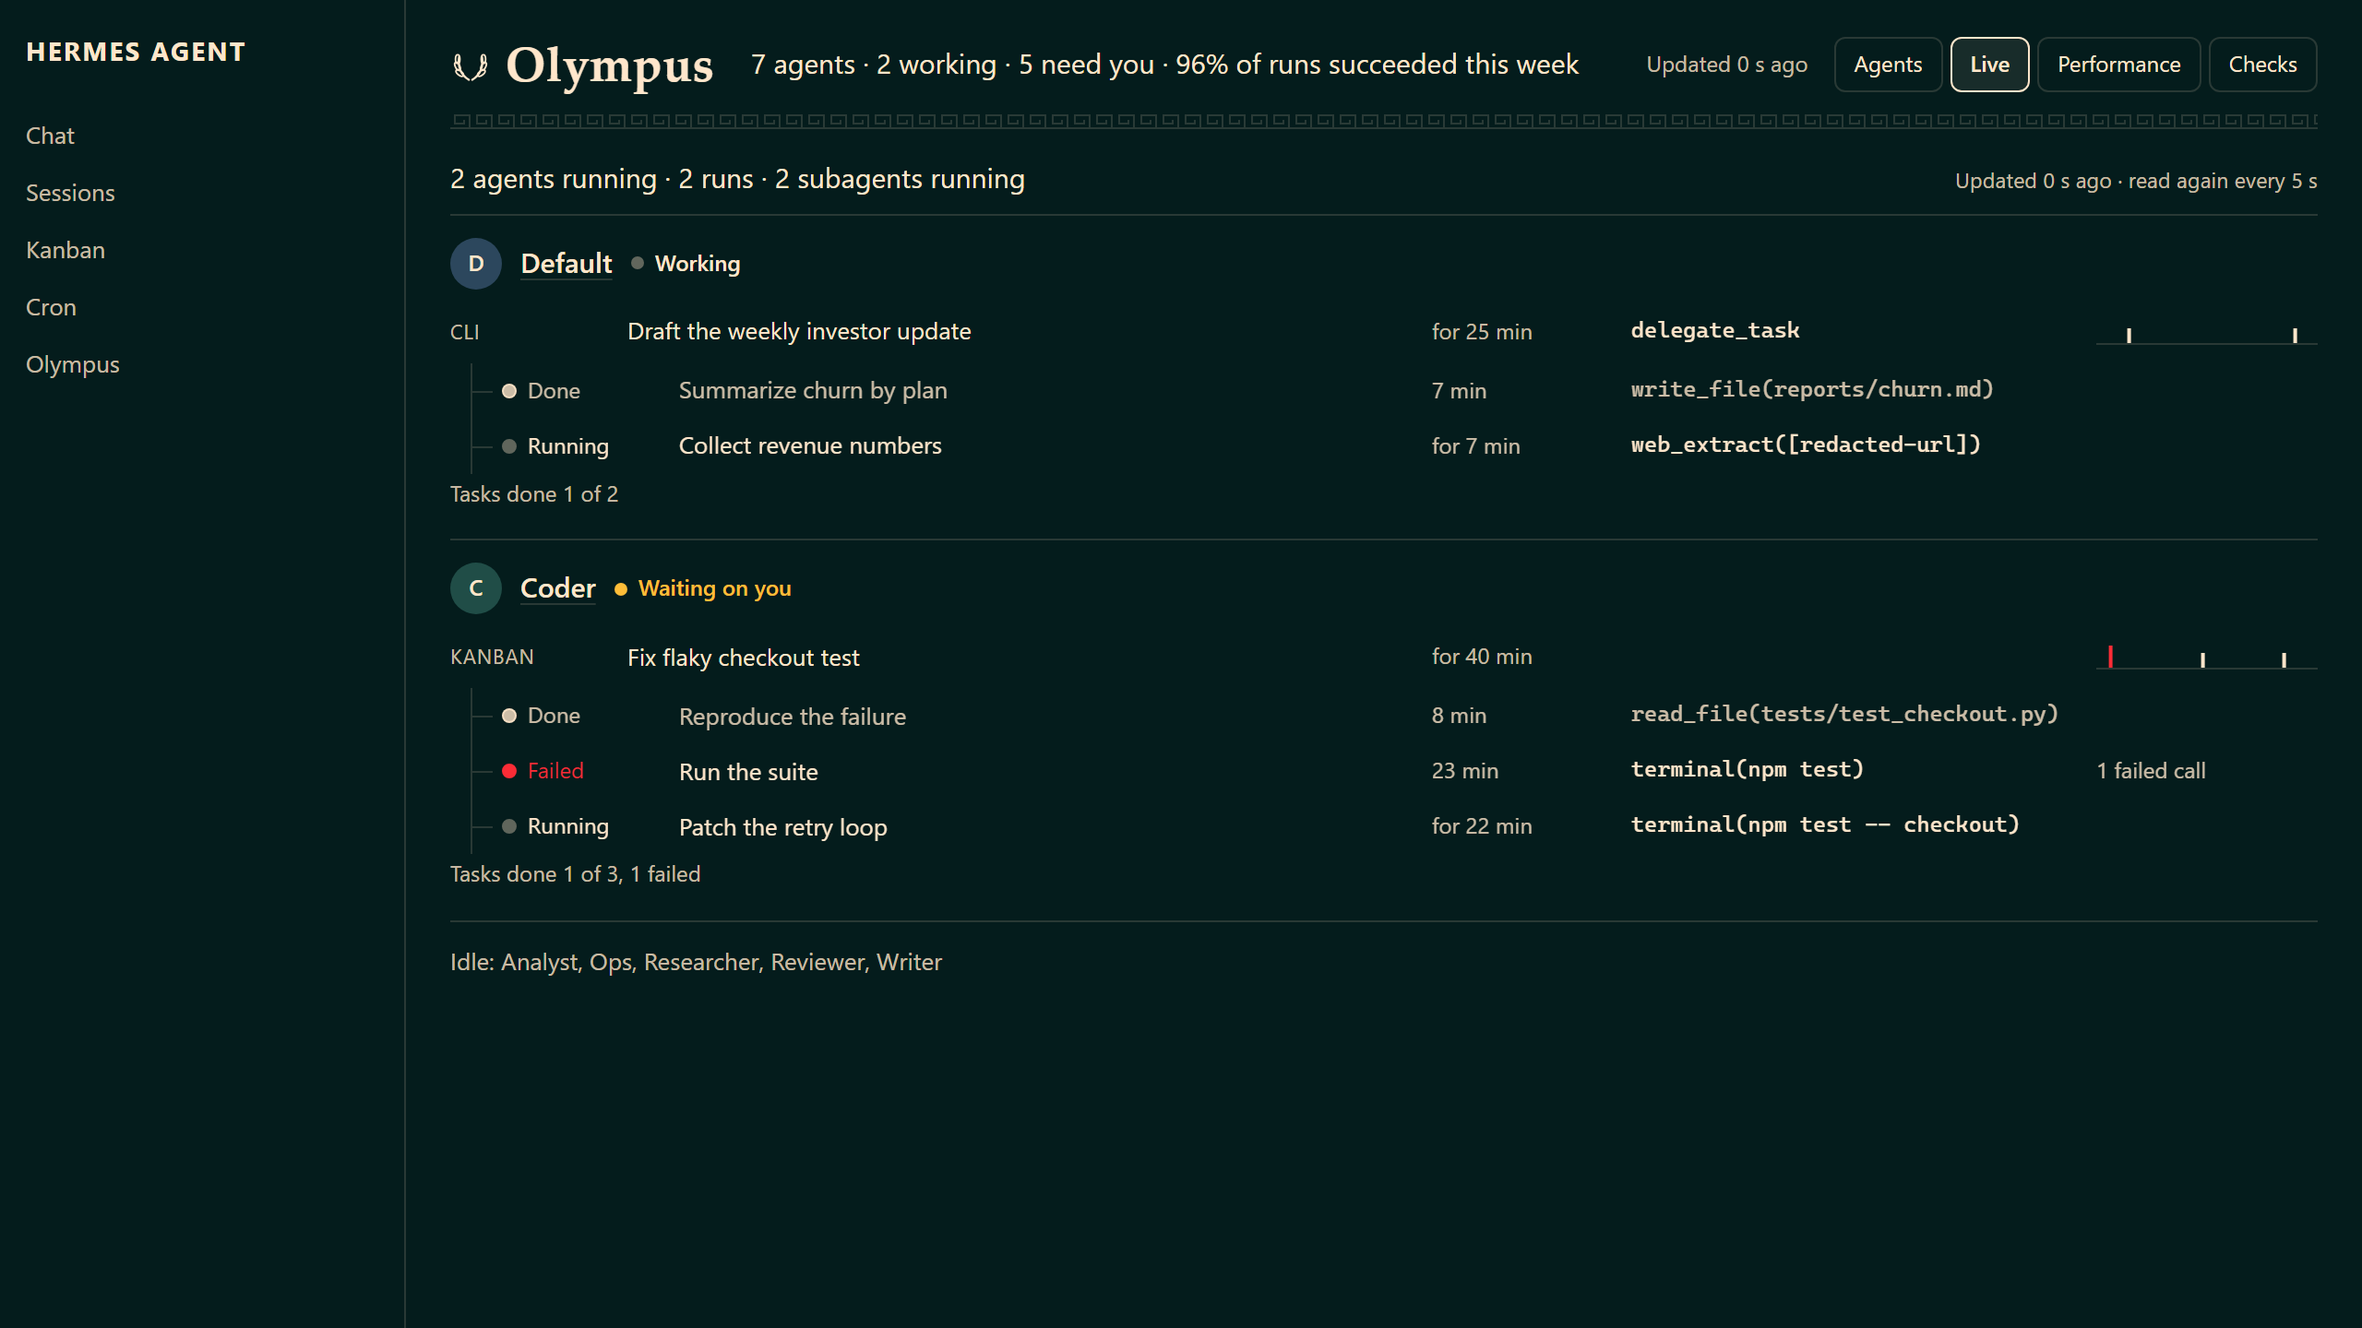
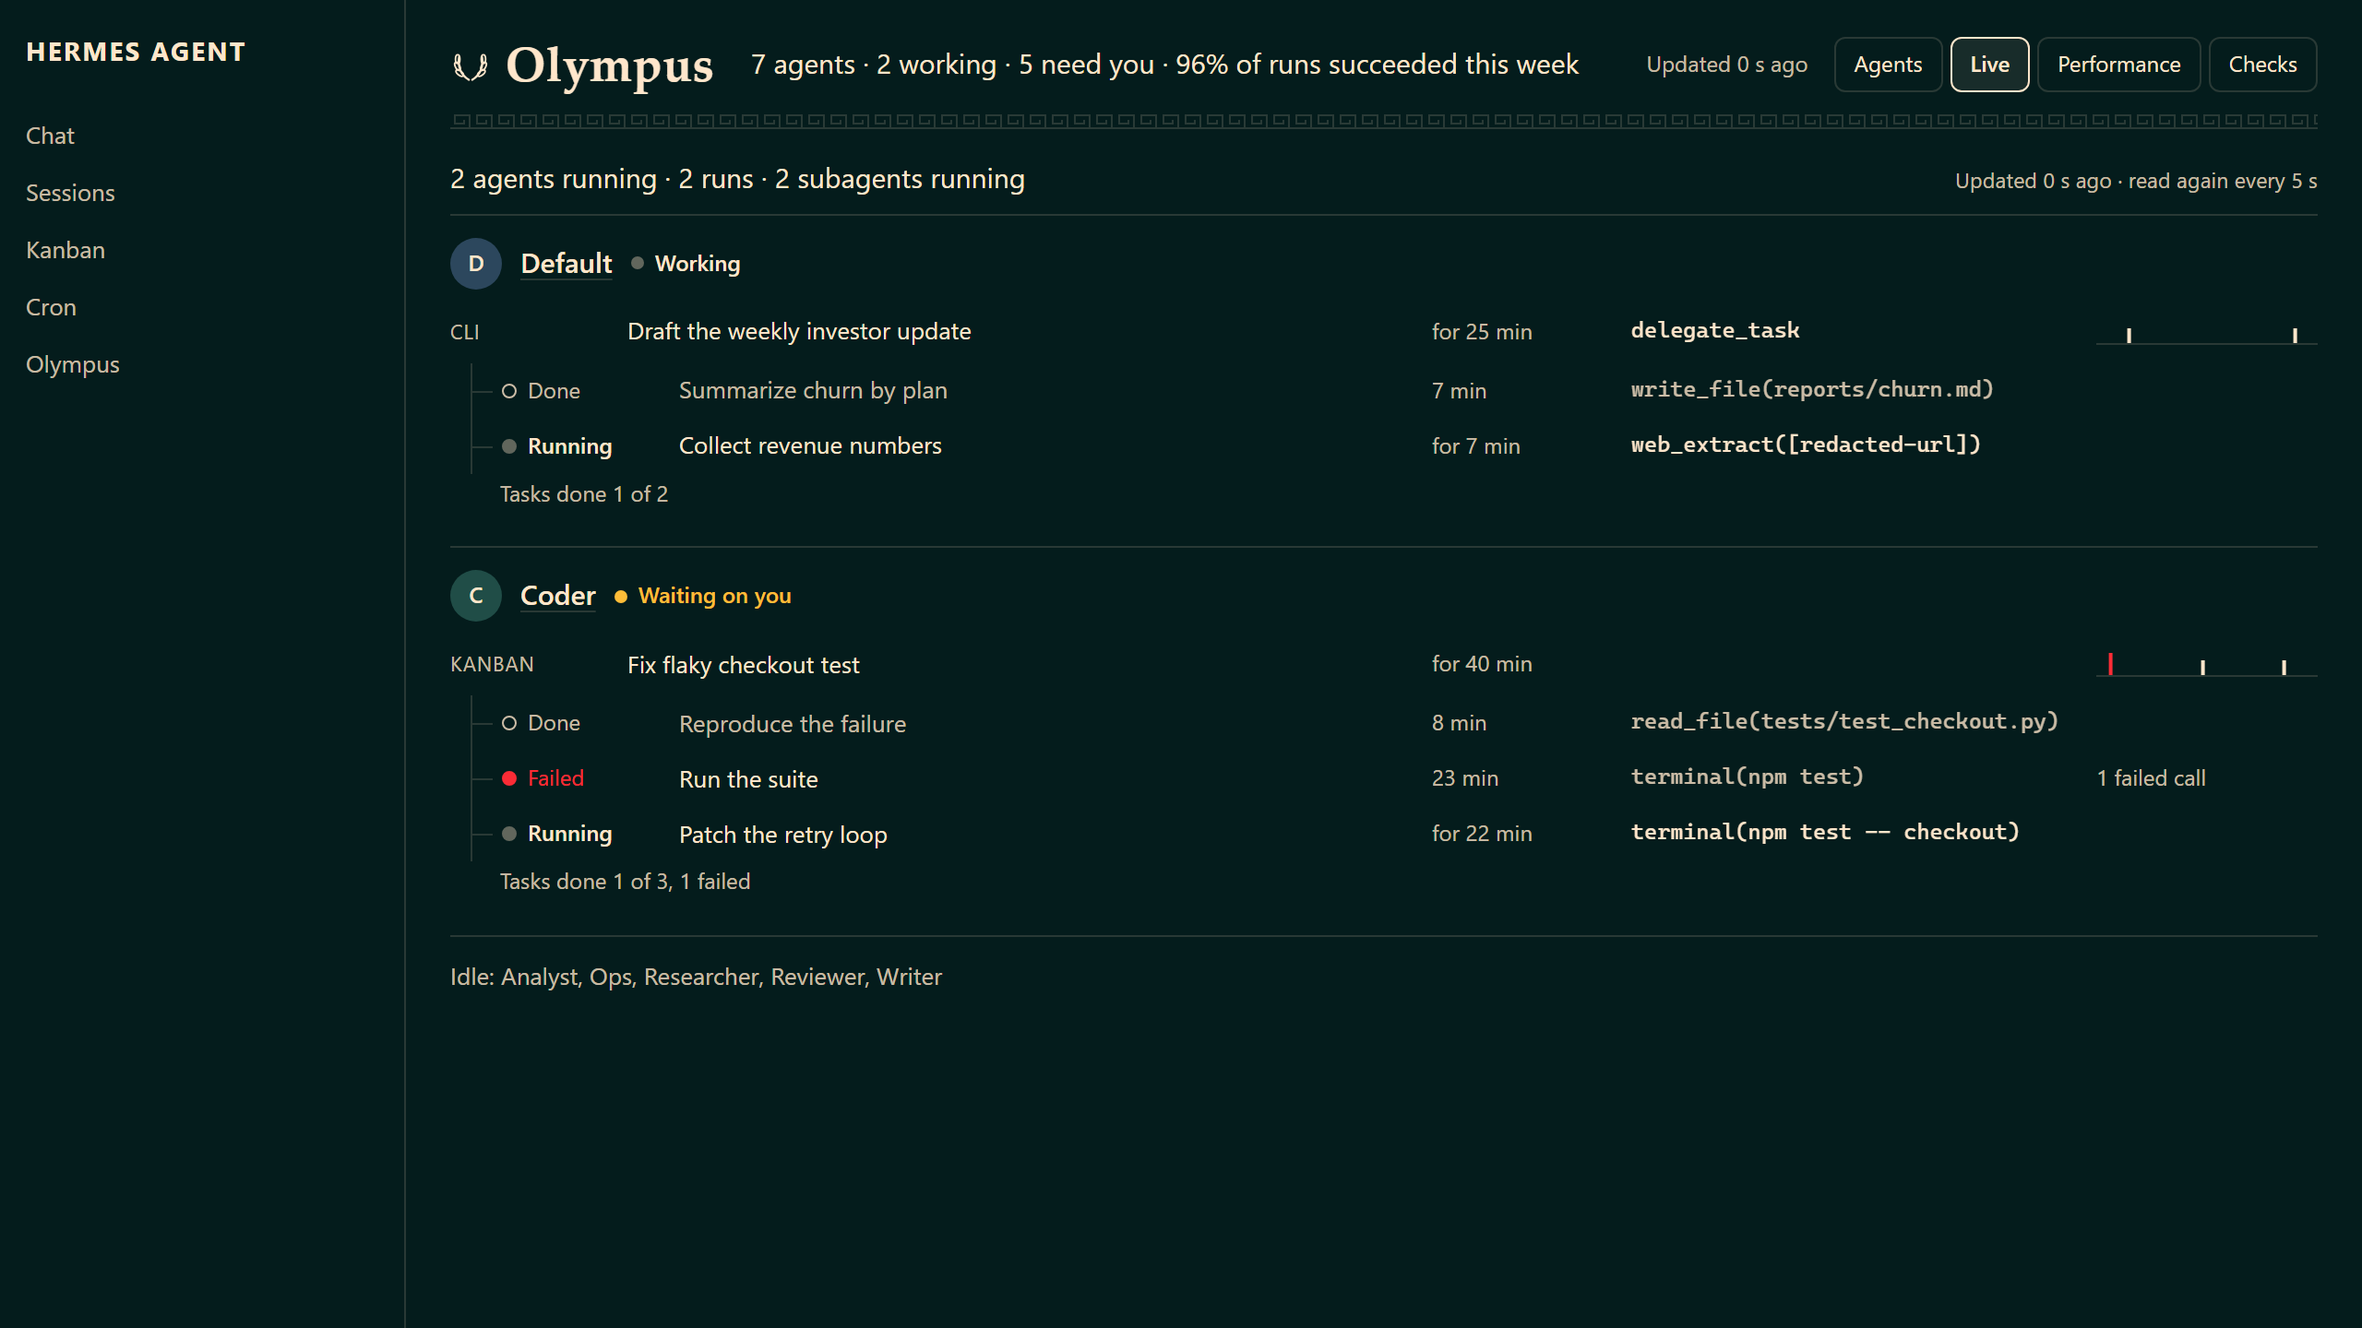
fix: Live view — animate only new subagents, lift Running, calm the tool chip, batch line indent
From the impeccable critique and a measured animation pass. Every child row
used to slide in on first paint and on each return to the tab, which is
page-load choreography; now only a subagent absent from the previous read
animates, and a tool chip fades only when it replaces another. The connector
stub no longer draws itself. A running child gets a filled dot and a bold
status word while done is hollow and muted, the tool chip sits at normal
weight under the task instead of over it, and "Tasks done N of M" keeps its
indent under the tree (the base paragraph rule had outranked it).

Playwright: a fixture ?grow=1 adds a subagent on the second read; tests
assert nothing animates at first paint, the grown child alone is marked new,
the stub has no animation, Running is 600 over Done 400, done dots are
hollow, chips are 400, and the batch line sits under the tree.

Claude-Session: https://claude.ai/code/session_017doESmRdm5Mbwm41YXbttS

diff --git a/dashboard/dist/index.js b/dashboard/dist/index.js
@@ -1322,11 +1322,14 @@
   }
 
   // The tool a session is on. Keyed by its text so a change remounts it and
-  // the stylesheet fades the new one in.
-  function ToolChip({ tool }) {
+  // the stylesheet fades the new one in; `settled` keeps the first paint still.
+  function ToolChip({ tool, settled }) {
+    // Fixed at mount: a chip that was on screen at first paint never gains
+    // the class later, so only a chip that replaces another fades in.
+    const [animate] = useState(settled);
     if (!tool || !tool.name) return null;
     const text = tool.name + (tool.args ? "(" + tool.args + ")" : "");
-    return el("code", { key: text, className: "olympus-lane-tool", title: text }, text);
+    return el("code", { key: text, className: cx("olympus-lane-tool", animate && "olympus-lane-tool-change"), title: text }, text);
   }
 
   // The last minute of tool calls as ticks that drift left one pixel-step a
@@ -1362,21 +1365,23 @@
     );
   }
 
-  function ChildRow({ child, now }) {
+  // `fresh`: the subagent appeared since the last read, so it slides in from
+  // its parent. Rows already on screen at first paint stay still.
+  function ChildRow({ child, now, fresh, settled }) {
     const running = child.status === "running";
-    return el("li", { className: cx("olympus-lane-child", "olympus-lane-child-" + child.status), "data-status": child.status },
+    return el("li", { className: cx("olympus-lane-child", "olympus-lane-child-" + child.status, fresh && "olympus-lane-child-new"), "data-status": child.status },
       el("span", { className: "olympus-lane-cell olympus-lane-status" },
         el("span", { className: cx("olympus-lane-dot", "olympus-lane-dot-" + child.status), "aria-hidden": "true" }),
         CHILD_STATUS_TEXT[child.status] || child.status
       ),
       el("span", { className: "olympus-lane-cell olympus-lane-label" }, child.label),
       el("span", { className: "olympus-lane-cell olympus-lane-time" }, running ? elapsed(child.started_at, now) : spanBetween(child.started_at, child.ended_at)),
-      el("span", { className: "olympus-lane-cell olympus-lane-tool-cell" }, el(ToolChip, { tool: child.last_tool })),
+      el("span", { className: "olympus-lane-cell olympus-lane-tool-cell" }, el(ToolChip, { tool: child.last_tool, settled })),
       el("span", { className: "olympus-lane-cell olympus-lane-note" }, child.errors ? plural(child.errors, "failed call") : null)
     );
   }
 
-  function RunRow({ run, now }) {
+  function RunRow({ run, now, freshRefs, settled }) {
     const batch = run.batch;
     const children = asList(run.children);
     return el("li", { className: "olympus-lane-run" },
@@ -1384,16 +1389,17 @@
         el("span", { className: "olympus-lane-cell olympus-lane-source" }, sourceText(run.source)),
         el("span", { className: "olympus-lane-cell olympus-lane-label" }, run.label),
         el("span", { className: "olympus-lane-cell olympus-lane-time" }, elapsed(run.started_at, now)),
-        el("span", { className: "olympus-lane-cell olympus-lane-tool-cell" }, el(ToolChip, { tool: run.last_tool })),
+        el("span", { className: "olympus-lane-cell olympus-lane-tool-cell" }, el(ToolChip, { tool: run.last_tool, settled })),
         el(ActivityStrip, { ticks: run.ticks, now })
       ),
-      children.length ? el("ol", { className: "olympus-lane-children" }, children.map((child) => el(ChildRow, { key: child.ref, child, now }))) : null,
+      children.length ? el("ol", { className: "olympus-lane-children" },
+        children.map((child) => el(ChildRow, { key: child.ref, child, now, fresh: freshRefs.has(child.ref), settled }))) : null,
       batch ? el("p", { className: "olympus-lane-batch" },
         "Tasks done " + batch.done + " of " + batch.total + (batch.failed ? ", " + plural(batch.failed, "failed") : "")) : null
     );
   }
 
-  function Lane({ lane, ctx }) {
+  function Lane({ lane, ctx, freshRefs, settled }) {
     const agent = ctx.agentById[lane.agent.id] || lane.agent;
     return el("section", { className: "olympus-lane", "aria-label": agent.label, "data-agent": agent.id },
       el("header", { className: "olympus-lane-head" },
@@ -1401,8 +1407,14 @@
         el("button", { type: "button", className: "olympus-link-button olympus-lane-name", onClick: () => ctx.openAgent(agent.id) }, agent.label),
         agent.status ? el(StatusPill, { status: agent.status, label: agent.status_label }) : null
       ),
-      el("ol", { className: "olympus-lane-runs" }, asList(lane.runs).map((run) => el(RunRow, { key: run.ref, run, now: ctx.now })))
+      el("ol", { className: "olympus-lane-runs" }, asList(lane.runs).map((run) => el(RunRow, { key: run.ref, run, now: ctx.now, freshRefs, settled })))
     );
+  }
+
+  function childRefs(payload) {
+    const refs = new Set();
+    asList(payload && payload.lanes).forEach((lane) => asList(lane.runs).forEach((run) => asList(run.children).forEach((child) => refs.add(child.ref))));
+    return refs;
   }
 
   function liveCensus(summary) {
@@ -1416,12 +1428,27 @@
   function LiveView({ ctx }) {
     const [live, setLive] = useState(null);
     const [error, setError] = useState(null);
+    // Which subagents are new since the last read, and whether the first
+    // read has painted: only those animate, never the whole list at once.
+    const [freshRefs, setFreshRefs] = useState(new Set());
+    const [settled, setSettled] = useState(false);
+    const seen = useRef(null);
     useEffect(() => {
       let alive = true;
       let timer = null;
       function load() {
         SDK.fetchJSON(API + "/live")
-          .then((next) => { if (alive) { setLive(next); setError(null); } })
+          .then((next) => {
+            if (!alive) return;
+            const refs = childRefs(next);
+            const fresh = new Set();
+            if (seen.current) refs.forEach((ref) => { if (!seen.current.has(ref)) fresh.add(ref); });
+            seen.current = refs;
+            setFreshRefs(fresh);
+            setLive(next);
+            setError(null);
+            window.requestAnimationFrame(() => { if (alive) setSettled(true); });
+          })
           .catch((err) => { if (alive) setError(toErrorMessage(err)); })
           .finally(() => { if (alive) timer = window.setTimeout(load, LIVE_REFRESH_MS); });
       }
@@ -1438,7 +1465,7 @@
       error ? el("p", { className: "olympus-error-text", role: "alert" }, "Could not read live runs: " + error) : null,
       !live && !error ? el(RosterSkeleton) : null,
       live && !lanes.length ? el("p", { className: "olympus-muted olympus-live-empty" }, "Nothing is running. A run shows here within " + live.poll_seconds + " s of starting.") : null,
-      lanes.map((lane) => el(Lane, { key: lane.agent.id, lane, ctx })),
+      lanes.map((lane) => el(Lane, { key: lane.agent.id, lane, ctx, freshRefs, settled })),
       idle.length ? el("p", { className: "olympus-muted olympus-live-idle" },
         "Idle: " + idle.map((agent) => (ctx.agentById[agent.id] || agent).label).join(", ")) : null
     );

diff --git a/tests/visual/olympus-live.spec.js b/tests/visual/olympus-live.spec.js
@@ -90,15 +90,53 @@ test.describe("Live view", () => {
     await expect(page.locator(".olympus-live-empty")).toHaveText("Nothing is running. A run shows here within 5 s of starting.");
   });
 
+  test("only a subagent that appears after the first read animates in", async ({ page }) => {
+    await page.clock.install();
+    await openLive(page, { state: "noisy", grow: "1" }, DESKTOP);
+    // First paint: every row is still; nothing is marked new and no chip fades.
+    await expect(page.locator(".olympus-lane-child")).toHaveCount(5);
+    await expect(page.locator(".olympus-lane-child-new")).toHaveCount(0);
+    const stillAnimations = await page.evaluate(() => document.getAnimations().map((a) => a.animationName).filter((n) => n && n.startsWith("olympus-lane")));
+    expect(stillAnimations).toEqual([]);
+    // Second read: one more subagent fanned out; it alone slides in.
+    await page.clock.runFor(5_200);
+    await expect(page.locator(".olympus-lane-child")).toHaveCount(6);
+    await expect(page.locator(".olympus-lane-child-new")).toHaveCount(1);
+    await expect(page.locator(".olympus-lane-child-new .olympus-lane-label")).toHaveText("Draft the cover note");
+    // The connector stub is static: no draw animation exists any more.
+    const stub = await page.locator(".olympus-lane-child-new").evaluate((node) => getComputedStyle(node, "::before").animationName);
+    expect(stub).toBe("none");
+  });
+
+  test("running is lifted over done without a new colour", async ({ page }) => {
+    await openLive(page, { state: "noisy" }, DESKTOP);
+    const coder = page.locator('.olympus-lane[data-agent="profile:coder"]');
+    const weights = await coder.locator(".olympus-lane-child .olympus-lane-status").evaluateAll((nodes) => nodes.map((n) => getComputedStyle(n).fontWeight));
+    expect(weights).toEqual(["400", "400", "600"]);
+    const doneDot = await coder.locator(".olympus-lane-child-done .olympus-lane-dot").evaluate((n) => getComputedStyle(n).backgroundColor);
+    expect(doneDot).toBe("rgba(0, 0, 0, 0)");
+    const chipWeight = await coder.locator(".olympus-lane-tool").first().evaluate((n) => getComputedStyle(n).fontWeight);
+    expect(chipWeight).toBe("400");
+    // The batch line keeps its indent under the tree, not the source column.
+    const [batchLeft, childLeft] = await Promise.all([
+      coder.locator(".olympus-lane-batch").evaluate((n) => n.getBoundingClientRect().left),
+      coder.locator(".olympus-lane-child").first().evaluate((n) => n.getBoundingClientRect().left)
+    ]);
+    expect(batchLeft).toBeGreaterThan(childLeft - 4);
+  });
+
   test("reduced motion turns every animation and transition off", async ({ page }) => {
     await page.emulateMedia({ reducedMotion: "reduce" });
-    await openLive(page, { state: "noisy" }, DESKTOP);
+    await page.clock.install();
+    await openLive(page, { state: "noisy", grow: "1" }, DESKTOP);
+    await page.clock.runFor(5_200);
+    await expect(page.locator(".olympus-lane-child-new")).toHaveCount(1);
     const motion = await page.evaluate(() => {
       const names = (selector, pseudo) => Array.from(document.querySelectorAll(selector)).map((node) => {
         const style = getComputedStyle(node, pseudo);
         return [style.animationName, style.transitionProperty];
       });
-      return names(".olympus-lane-child").concat(names(".olympus-lane-child", "::before"), names(".olympus-lane-tool"), names(".olympus-lane-tick"), names(".olympus-lane-dot-running"));
+      return names(".olympus-lane-child-new").concat(names(".olympus-lane-child", "::before"), names(".olympus-lane-tool"), names(".olympus-lane-tick"), names(".olympus-lane-dot-running"));
     });
     for (const [animation, transition] of motion) {
       expect(animation).toBe("none");

diff --git a/dashboard/dist/style.css b/dashboard/dist/style.css
@@ -1855,8 +1855,17 @@
   font-size: 12px;
   white-space: nowrap;
   text-overflow: ellipsis;
-  color: var(--olympus-fg);
+  font-weight: 400;
+  color: var(--olympus-muted);
   background: transparent;
+}
+
+.olympus-lane-run-row .olympus-lane-tool,
+.olympus-lane-child-running .olympus-lane-tool {
+  color: var(--olympus-fg);
+}
+
+.olympus-page .olympus-lane-tool-change {
   animation: olympus-lane-fade 160ms cubic-bezier(0.22, 1, 0.36, 1) both;
 }
 
@@ -1870,6 +1879,9 @@
 
 .olympus-lane-child {
   position: relative;
+}
+
+.olympus-lane-child-new {
   animation: olympus-lane-in 220ms cubic-bezier(0.22, 1, 0.36, 1) both;
 }
 
@@ -1881,8 +1893,6 @@
   width: 11px;
   height: 1px;
   background: var(--olympus-hairline);
-  transform-origin: left center;
-  animation: olympus-lane-draw 240ms cubic-bezier(0.22, 1, 0.36, 1) both;
 }
 
 .olympus-lane-status {
@@ -1911,7 +1921,12 @@
 
 .olympus-lane-dot-done {
   border-color: var(--olympus-muted);
-  background: var(--olympus-muted);
+  background: transparent;
+}
+
+.olympus-lane-child-running .olympus-lane-status {
+  font-weight: 600;
+  color: var(--olympus-fg);
 }
 
 .olympus-lane-dot-failed {
@@ -1924,15 +1939,11 @@
   transition: color 200ms cubic-bezier(0.22, 1, 0.36, 1);
 }
 
-.olympus-lane-child-done .olympus-lane-tool {
-  color: var(--olympus-muted);
-}
-
 .olympus-lane-child-failed .olympus-lane-status {
   color: var(--color-destructive);
 }
 
-.olympus-lane-batch {
+.olympus-page .olympus-lane-batch {
   margin: 2px 0 4px 27px;
   font-size: 12px;
   font-variant-numeric: tabular-nums;
@@ -1982,16 +1993,6 @@
   }
 }
 
-@keyframes olympus-lane-draw {
-  from {
-    transform: scaleX(0);
-  }
-
-  to {
-    transform: scaleX(1);
-  }
-}
-
 @keyframes olympus-lane-fade {
   from {
     opacity: 0;
@@ -2026,9 +2027,8 @@
 }
 
 @media (prefers-reduced-motion: reduce) {
-  .olympus-lane-child,
-  .olympus-lane-child::before,
-  .olympus-page .olympus-lane-tool,
+  .olympus-lane-child-new,
+  .olympus-page .olympus-lane-tool-change,
   .olympus-lane-dot-running {
     animation: none;
   }

diff --git a/tests/fixtures/olympus-fixture.html b/tests/fixtures/olympus-fixture.html
@@ -181,6 +181,7 @@
       const failPath = params.get("fail");
       if (params.get("base")) window.__HERMES_BASE_PATH__ = params.get("base");
       const fetchLog = window.__OLYMPUS_FETCH_LOG__ = { started: 0, settled: 0, inFlight: 0, peak: 0, writes: [] };
+      let liveReads = 0;
 
       async function fixtureFetchJSON(url, init) {
         fetchLog.started += 1;
@@ -252,7 +253,16 @@
           return agentData.runs[query(url).get("ref")] || { found: false };
         }
         if (path === "/api/plugins/olympus/live") {
-          return shifted(generated.live);
+          // ?grow=1: from the second read on, one more subagent has appeared
+          // under the first run, as it would when a batch fans out.
+          liveReads += 1;
+          const live = shifted(generated.live);
+          if (params.get("grow") && liveReads > 1 && live.lanes.length) {
+            const run = live.lanes[0].runs[0];
+            run.children = run.children.concat([{ ref: "session:grown", label: "Draft the cover note", status: "running",
+              started_at: new Date().toISOString(), ended_at: null, last_tool: { name: "read_file", at: null }, errors: 0 }]);
+          }
+          return live;
         }
         if (path === "/api/plugins/olympus/resolve") {
           if (!data.controls) return { allowed: false, reason: "Controls are off (dashboard.olympus.controls is false in config.yaml)." };
